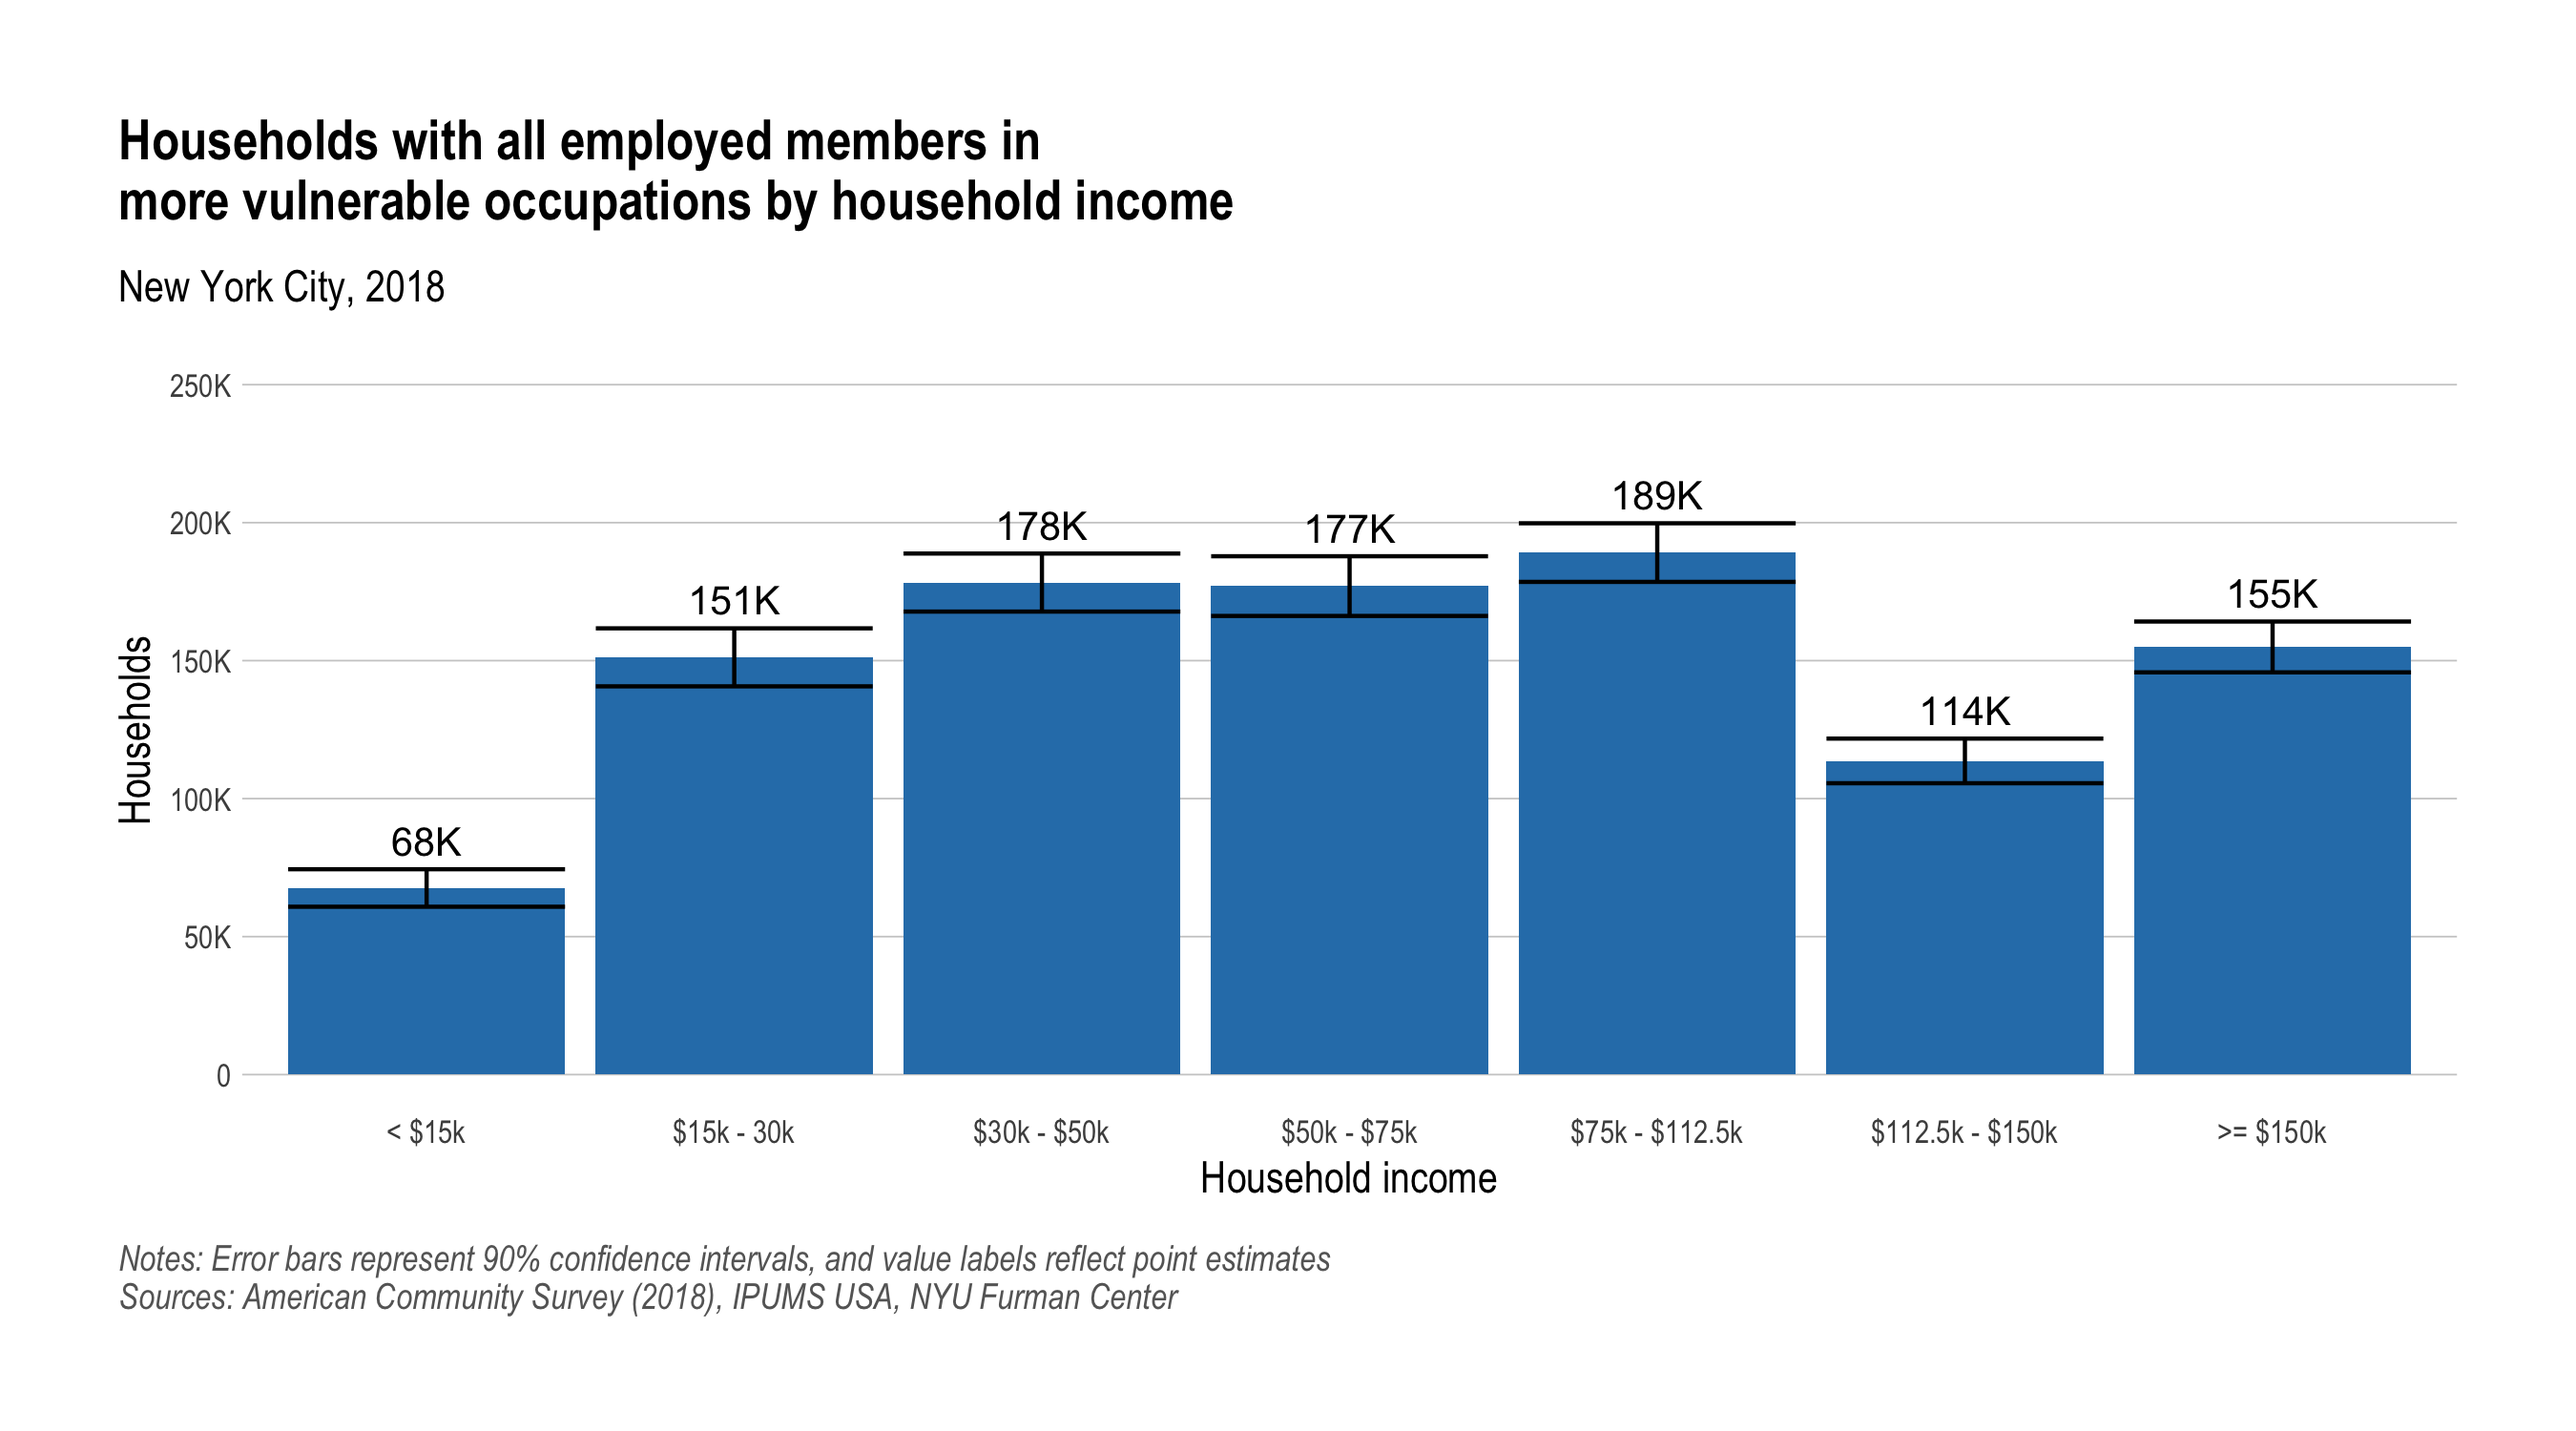
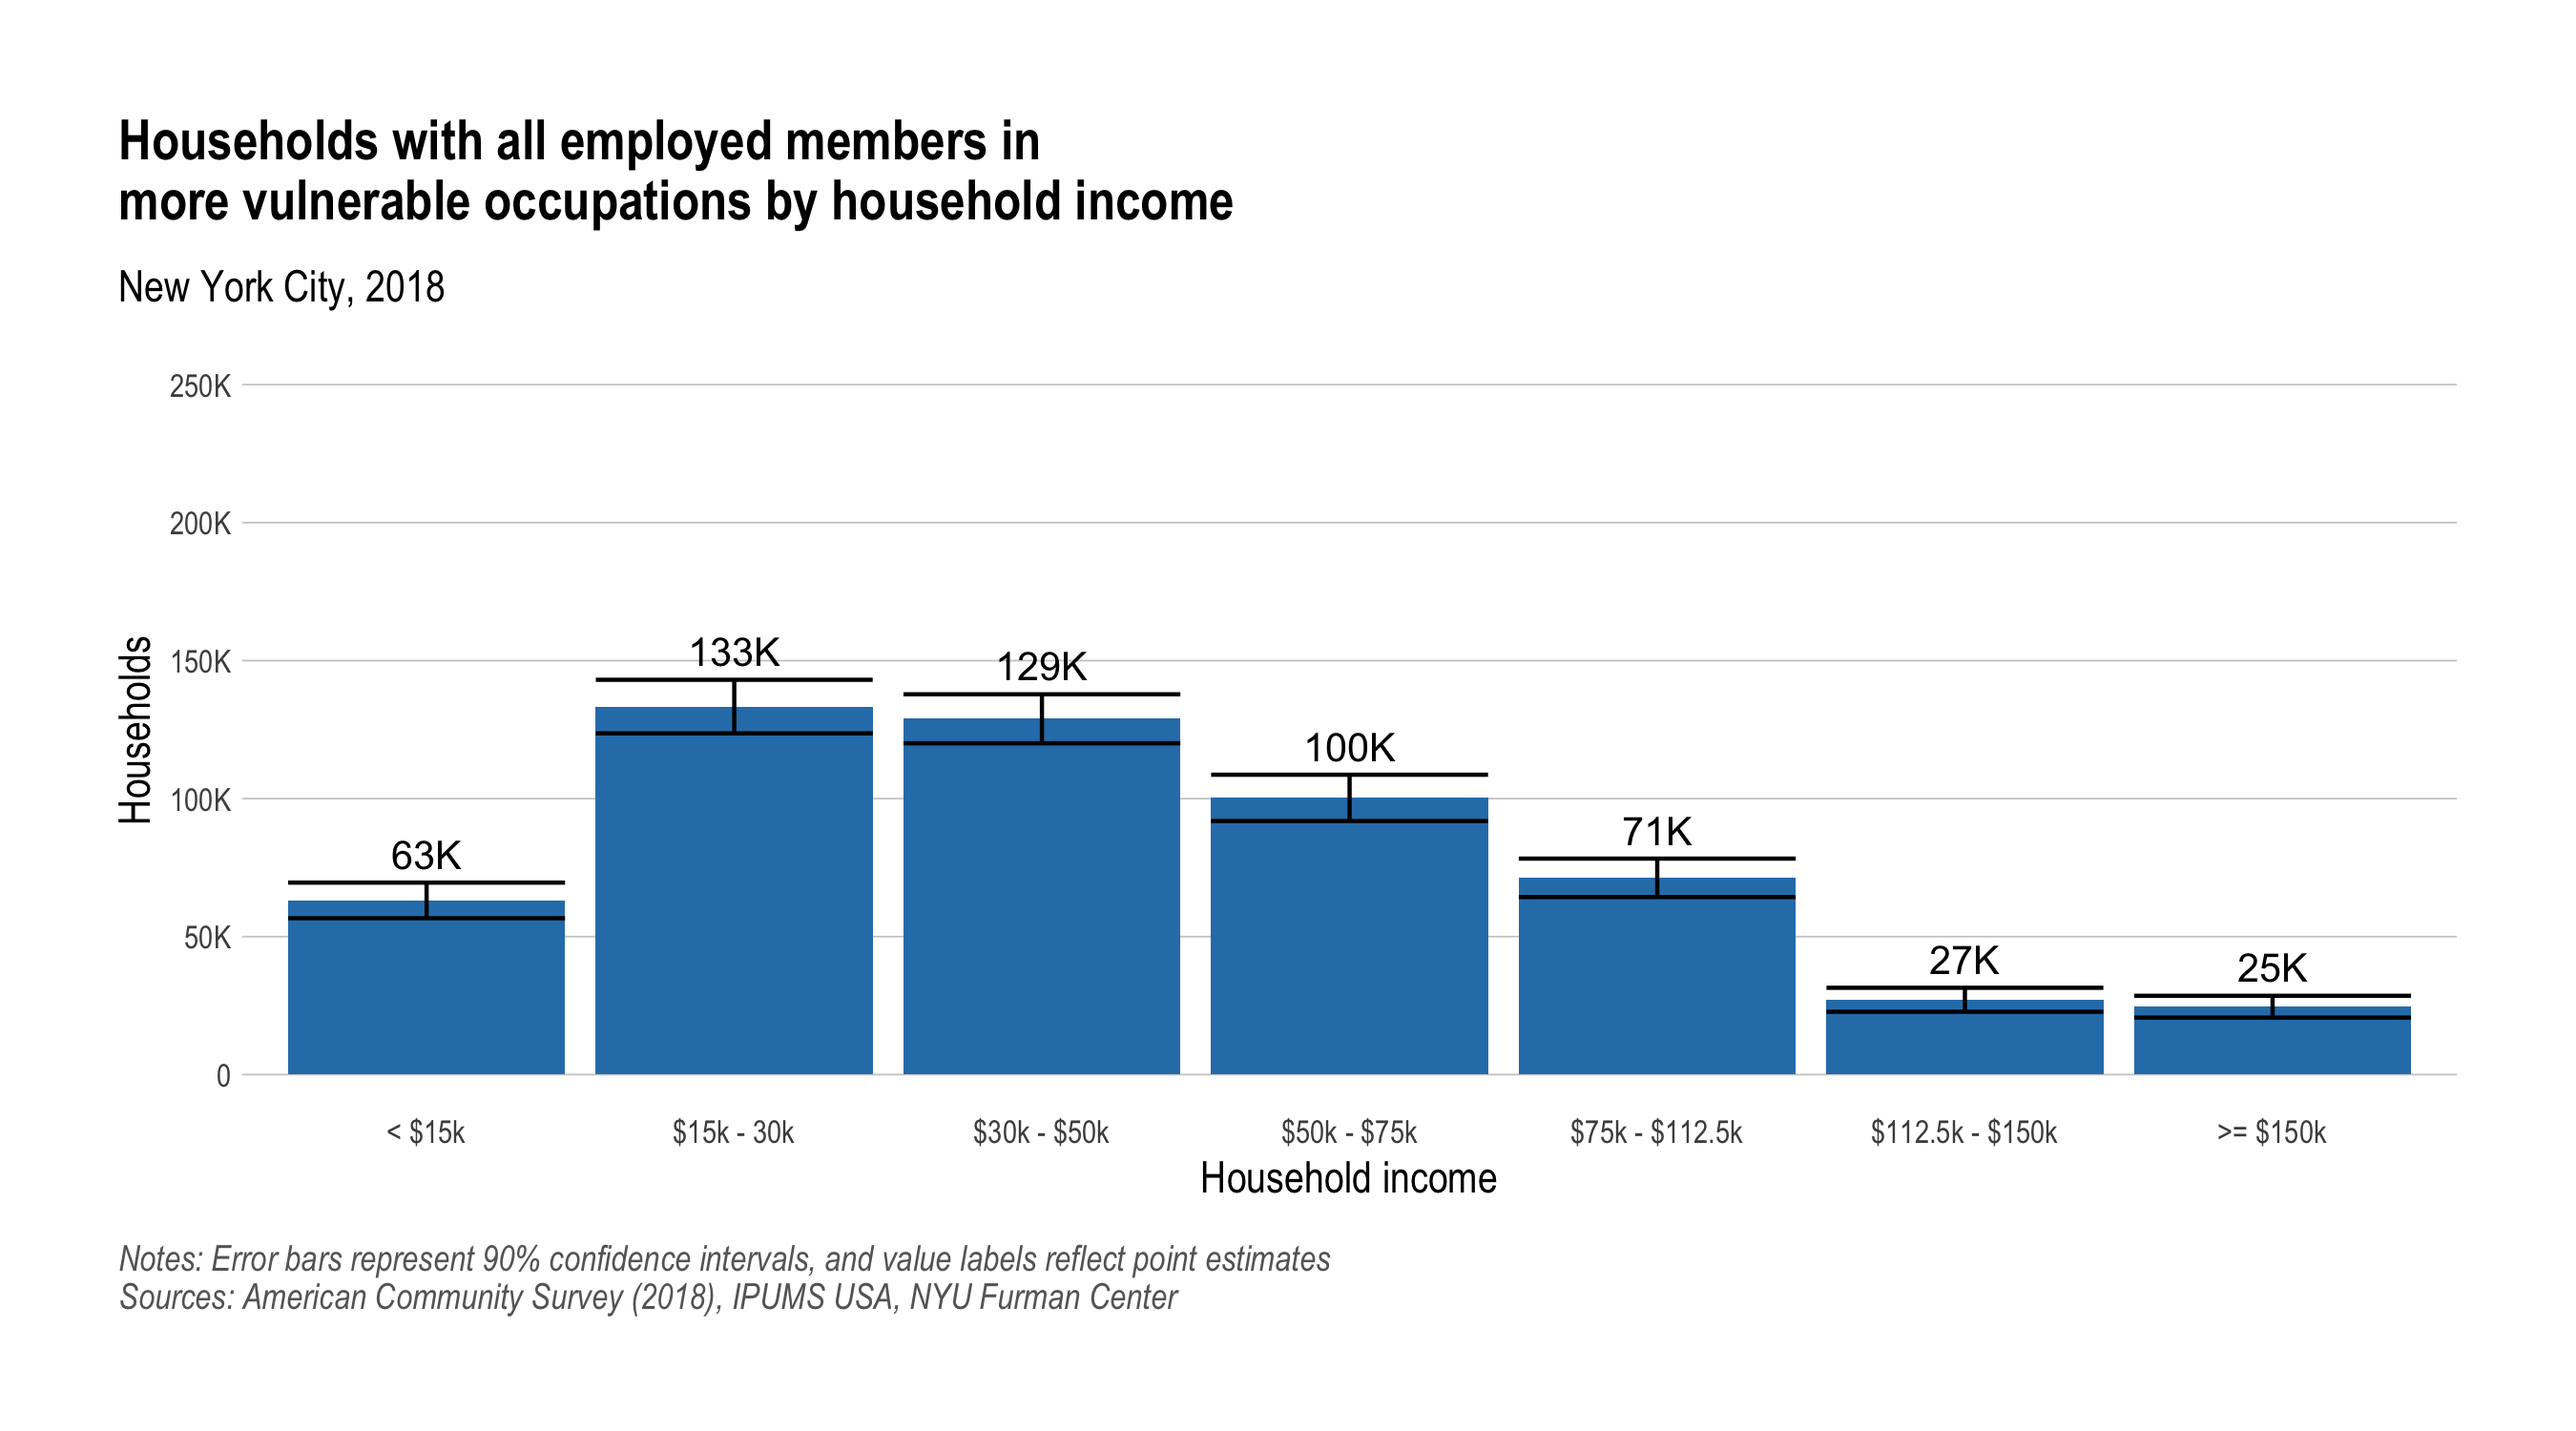
fix typo mismatch of any/all for all households graph

Changed region(s): [[0.2178, 0.3373, 0.9333, 0.736], [0.0933, 0.5827, 0.2178, 0.644]]

diff --git a/README.md b/README.md
@@ -330,7 +330,7 @@ plot_save_include("img/nyc_occ-risk-any_renter-share-income.png")
 p <- ipums_clean %>% 
   filter(
     pernum == 1, # keep only one row per household
-    hh_any_risk # keep only households with at least one wage earner in vulnerable occupation
+    hh_all_risk # keep only households with all wage earners in vulnerable occupations
   ) %>% 
   as_survey_design(weights = hhwt) %>% 
   group_by(hh_inc_grp, .drop = FALSE) %>% 
